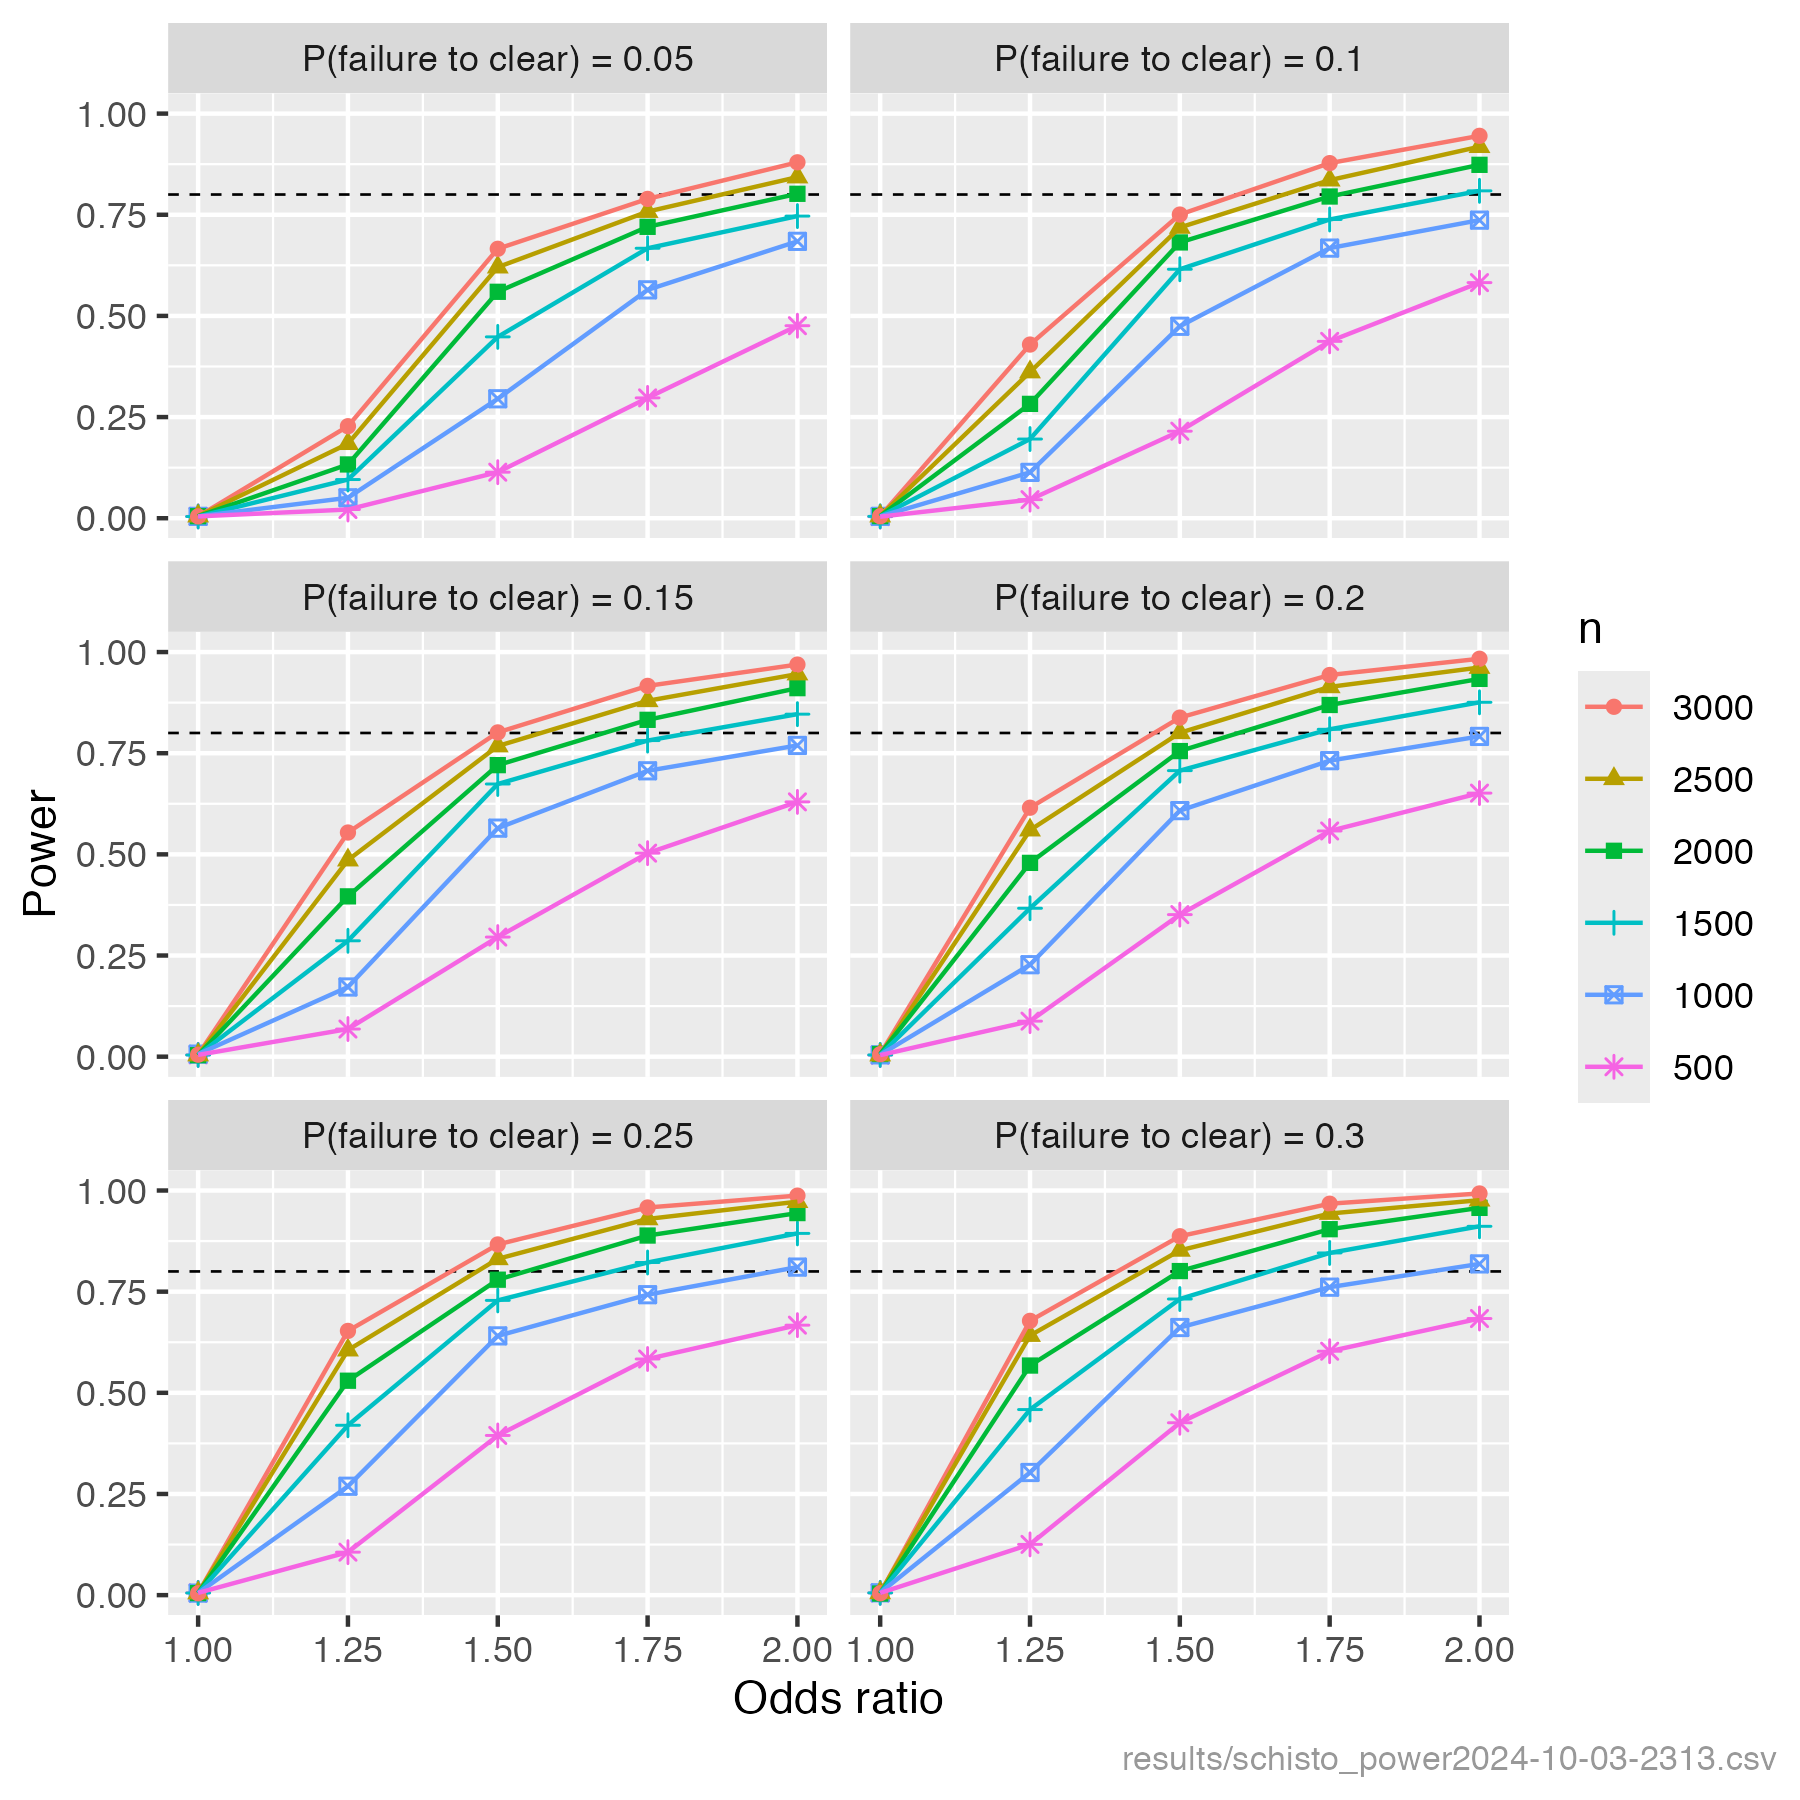
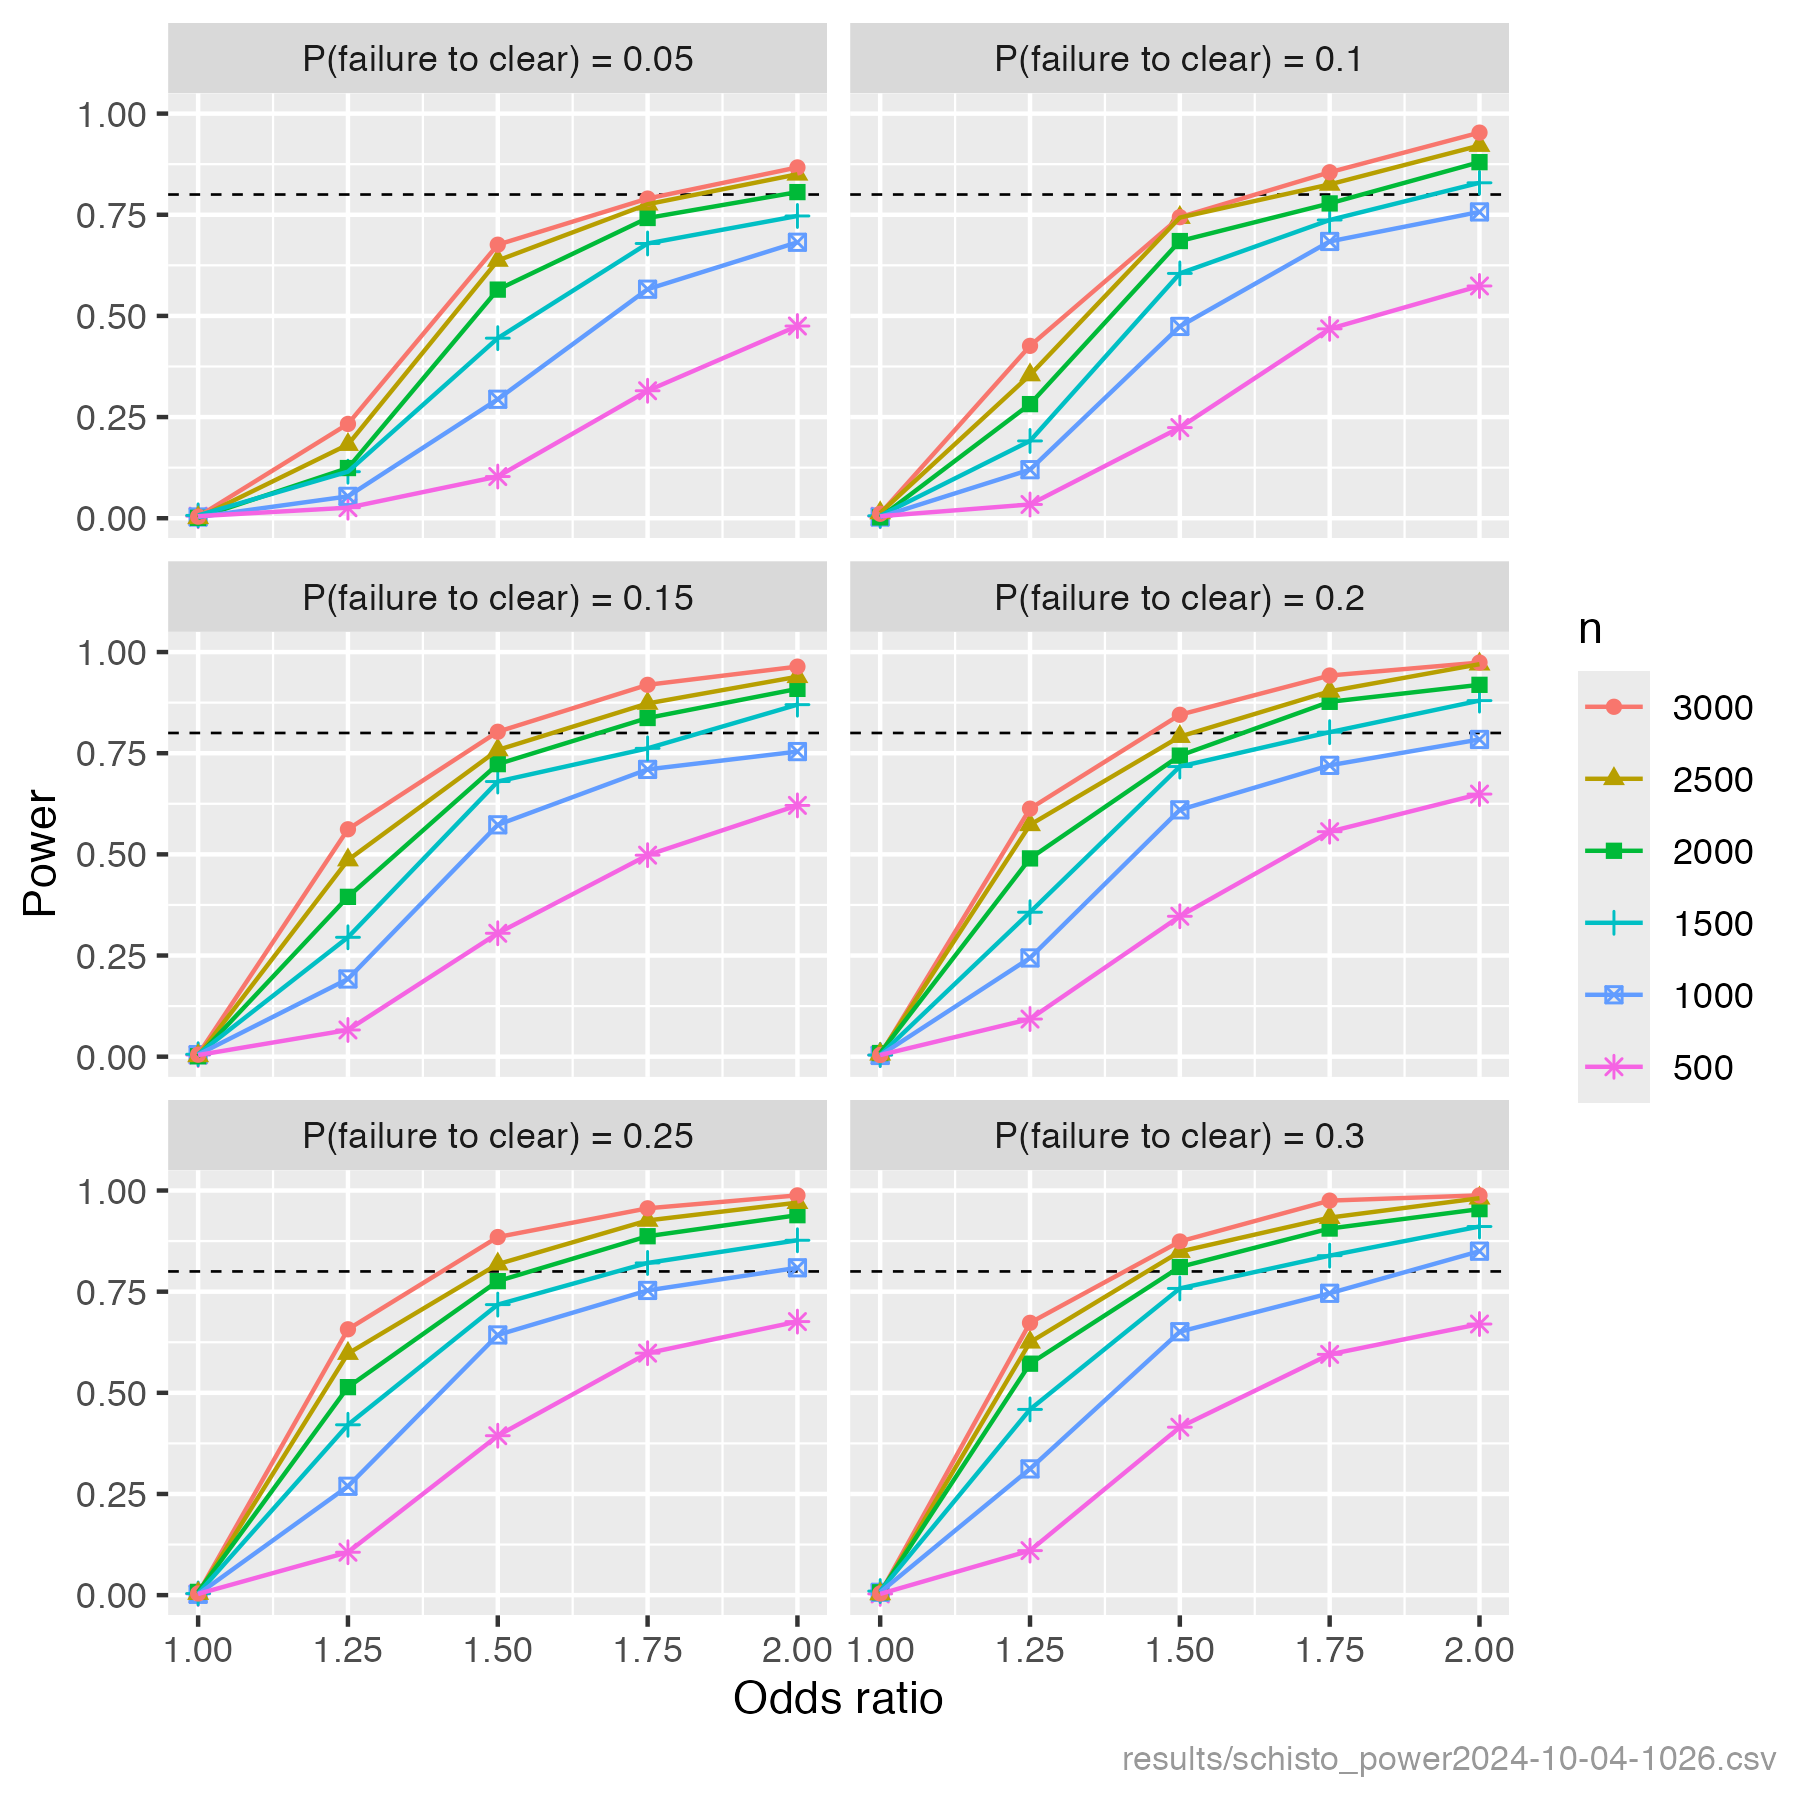
change order of power analyses

diff --git a/README.md b/README.md
@@ -1,10 +1,10 @@
-# SchistoDrivers
 
- ## Power analysis 1: identifying drivers of schistosomiasis praziquantel treatment failure
+
+## Power analysis 2: identifying drivers of schistosomiasis praziquantel treatment failure (main study)
 
  ### Methods
 
- The aim of power analysis 1 is to estimate power to detect drivers of praziquantel treatment failure in individuals infected with schistosomiasis. This is a simulation-based power analysis, where the study data is simulated and analysed multiple times under varying study design scenarios, and power is estimated as the proportion of simulated analyses that achieve the desired outcome (detecting a true driver of treatment failure). The association between the outcome (treatment failure) and each driver is estimated and tested in a multivariable GLM. For this analysis, power is defined as the proportion of drivers that are significantly associated with the outcome, averaged across 1000 simulated data analyses per scenario.
+ The aim of this power analysis is to estimate power to detect drivers of praziquantel treatment failure in individuals infected with schistosomiasis. This is a simulation-based power analysis, where the study data is simulated and analysed multiple times under varying study design scenarios, and power is estimated as the proportion of simulated analyses that achieve the desired outcome (detecting a true driver of treatment failure). The association between the outcome (treatment failure) and each driver is estimated and tested in a multivariable GLM. For this analysis, power is defined as the proportion of drivers that are significantly associated with the outcome, averaged across 100 simulated data analyses per scenario.
 
  The following assumptions are made:
 - 10 drivers are associated with the outcome, of which 4 are binary and 6 continuous. The prevalences of the binary drivers are: 0.2, 0.2, 0.2, 0.5, representing drivers such as co-infection (soil-transmitted helminths, malaria) and hybrid/resistance presence).
@@ -22,18 +22,3 @@
 
  ### Results
  ![PowerCurve](schisto_power1.png)
-
-## Power analysis 2: randomised controlled trial for the effect of food prior to treatment on praziquantel absorption
-
- ### Methods
-
- The aim of power analysis 2 is to estimate power to detect a difference in praziquantel absorption (measured as area under the curve [AUC] of praziquantel metabolites) between three groups:
- - people who have taken food at home prior to praziquantel treatment;
- - people who have brought in food to be taken prior to praziquantel treatment;
- - people for whom food has been provided on site prior to praziquantel treatment.
-
- The null hypothesis is that mean AUC is equal across the three groups. The alternative hypothesis is that mean AUC differs between the three groups. The effect size assumed here is that the group AUC means differ by 0.25 standard deviations from the lowest mean to the intermediate mean, and by 0.25 standard deviations from the intermediate mean to the highest mean. Target power is 90%, which is set higher that the standard minimal threshold of 80%. Lowering the risk of a type II error in this way is justified by the likely public health benefit of finding an optimal strategy, if it exists, for taking food prior to praziquantel treatment. The null hypothesis is rejected if P < 0.05 from a one-way ANOVA. The required sample size per group was calculated using the R function *power.anova.test*. Full details are provided in the script PowerAnalysis.R. 
-
- ### Results
- 103 people would be required per group in order to achieve 90% power to detect a 0.25 standard deviation difference between each of the three groups. 
-
